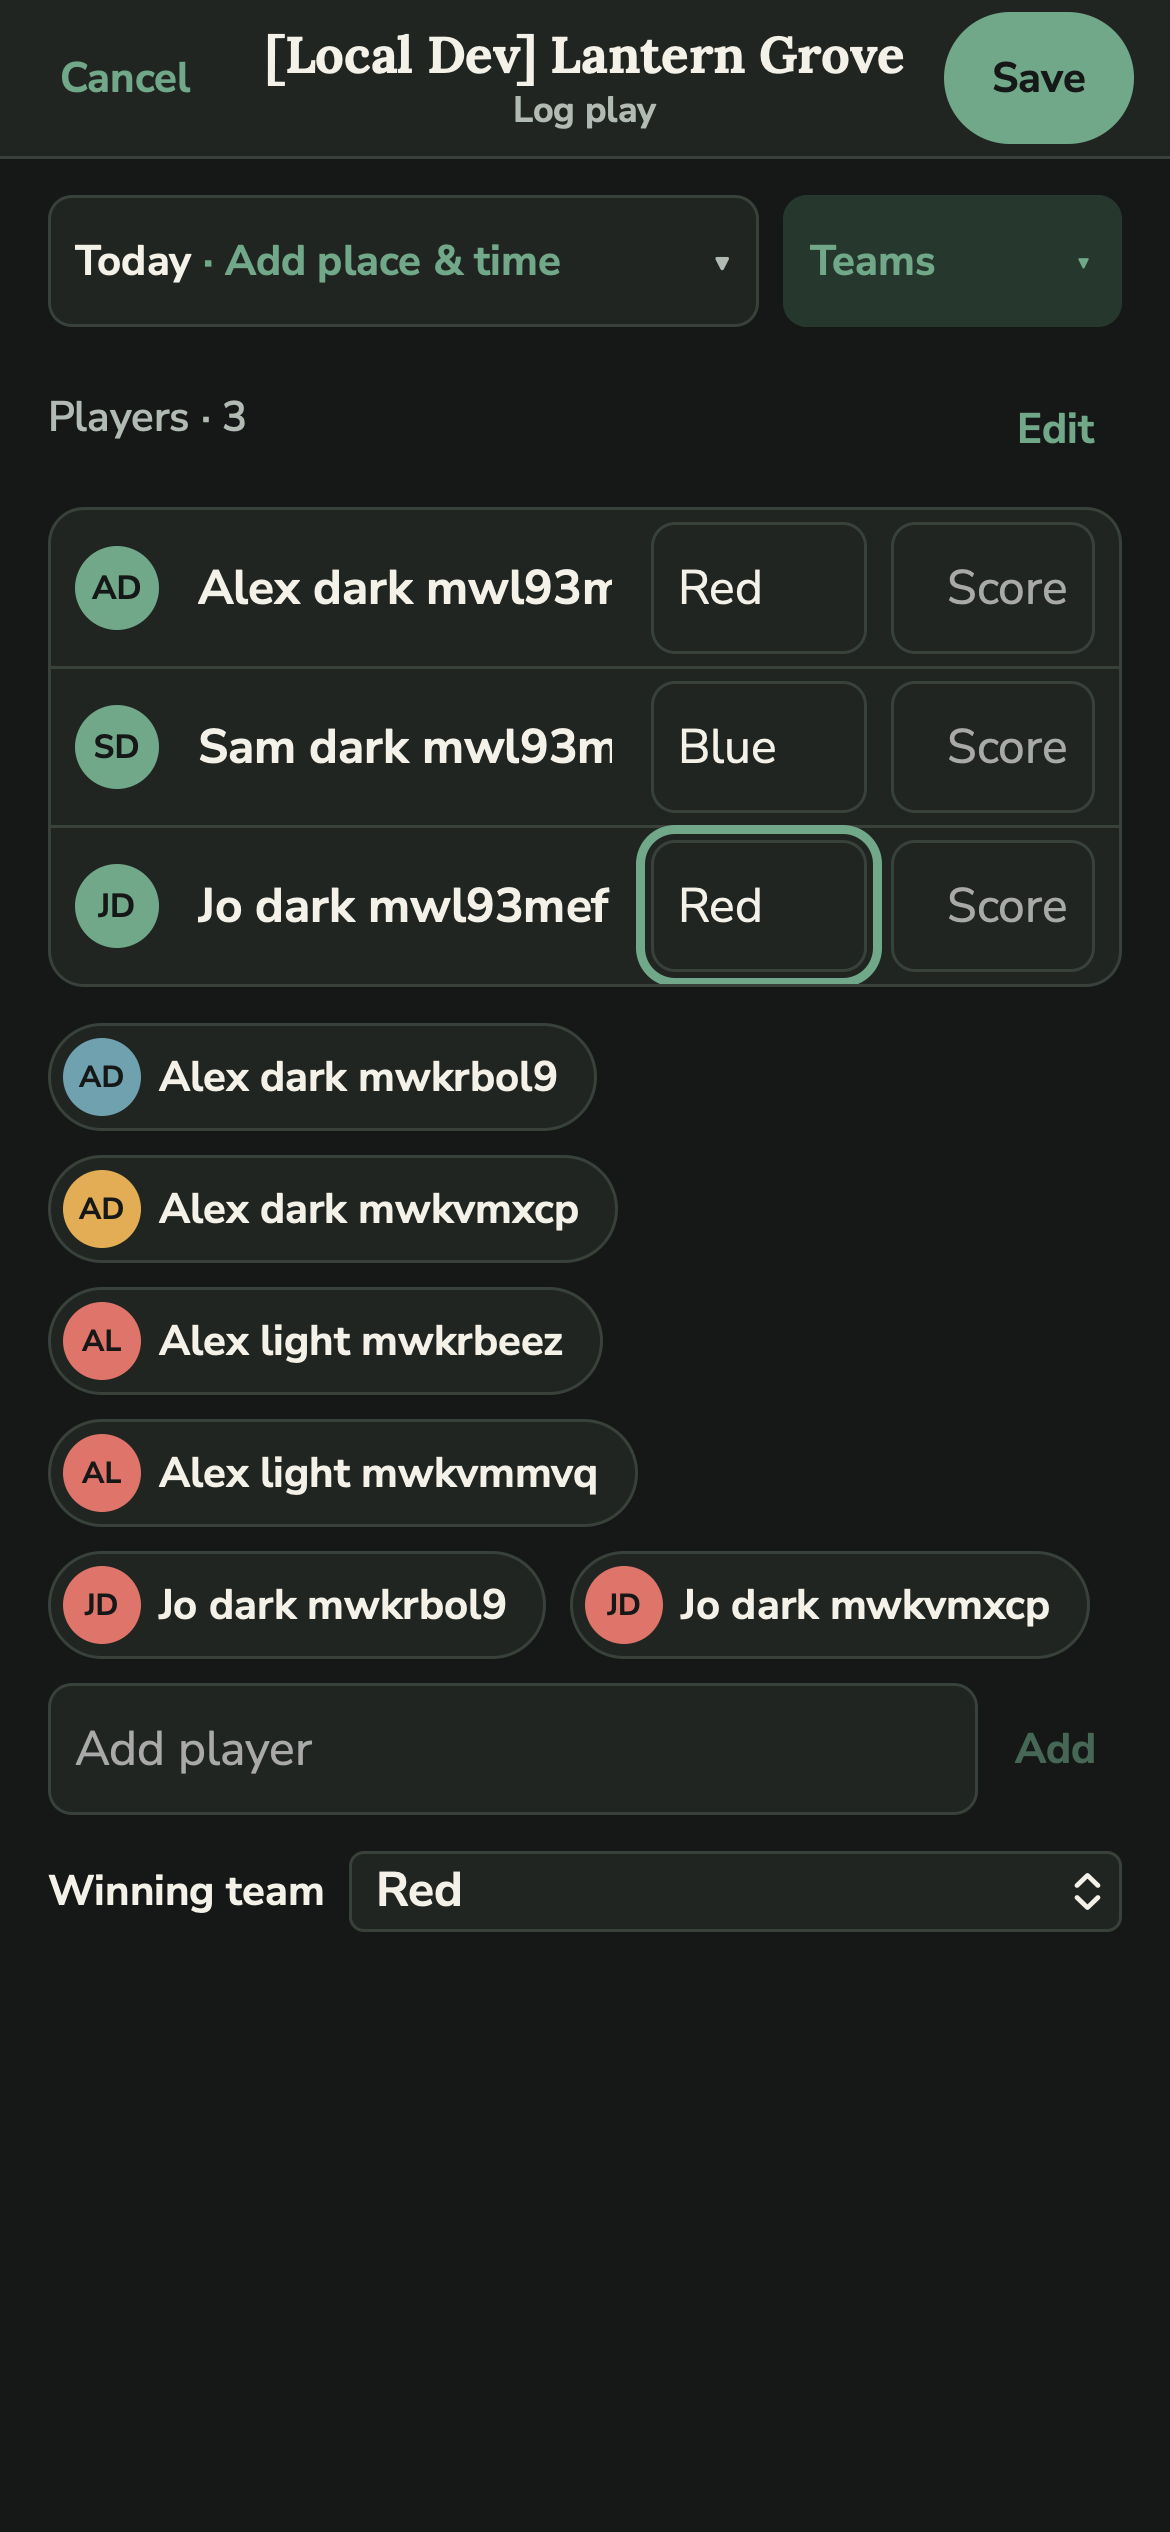
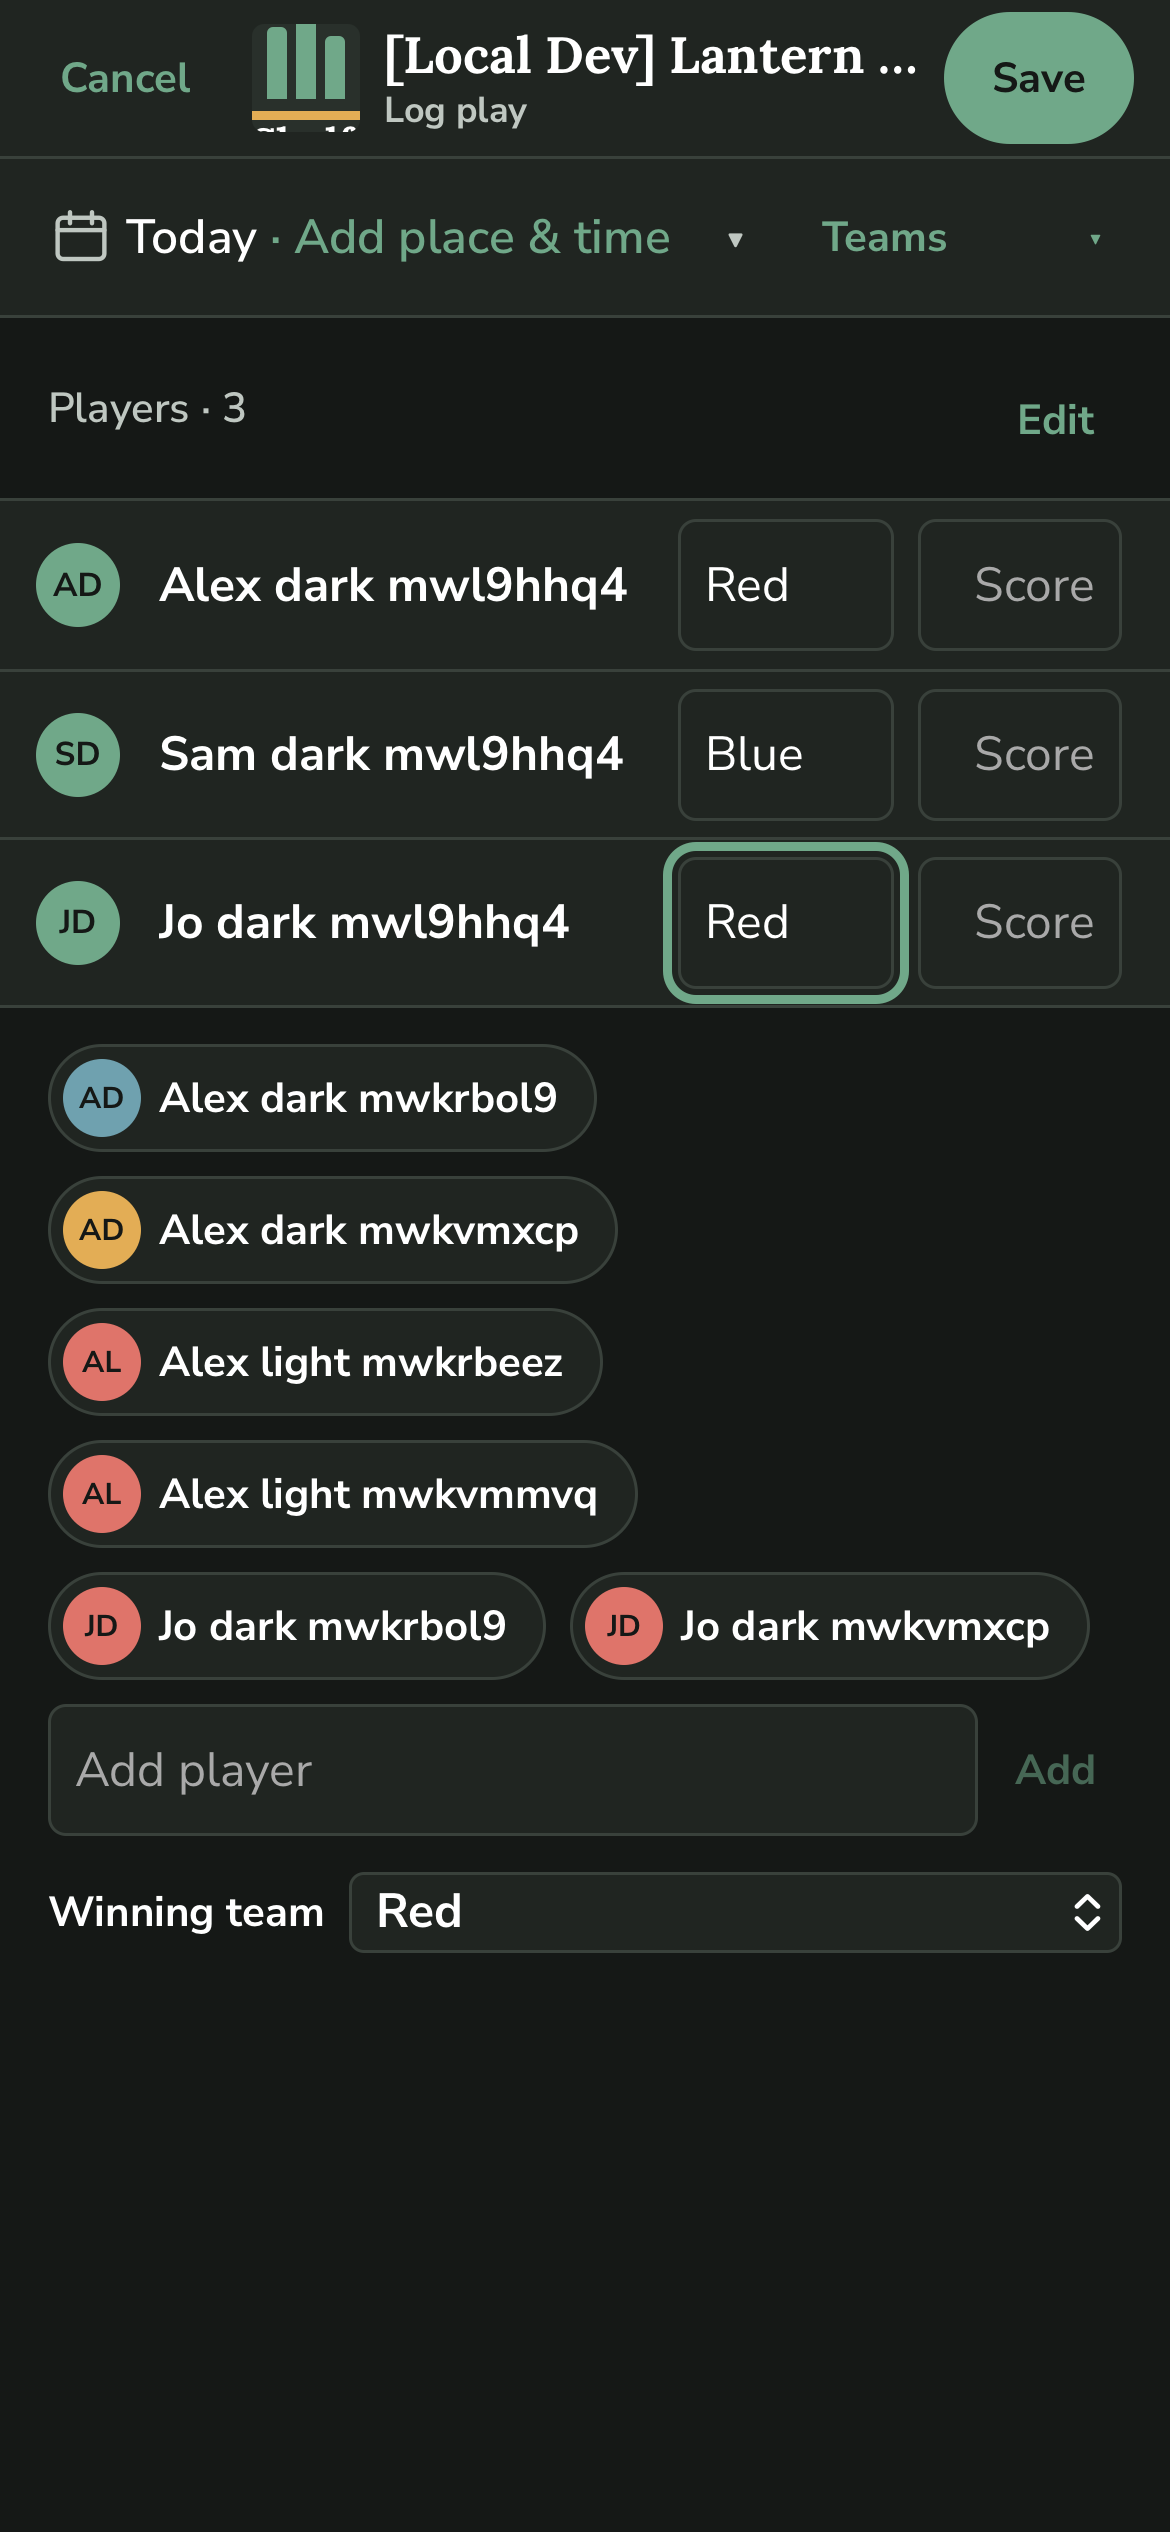
SP-UI-02: apply owner checkpoint feedback
Share moves left on Tonight's pick so it never meets the avatar. Links lose
underlines site-wide (Forest colour, trailing chevron for standalone
actions). Dark-mode text is pure white with a brighter secondary tone.
Log play rows are flat hairline rows with no boxes around the summary and
result type, plus a small game cover by the title. Richer group stats are
recorded as a separate follow-up.

diff --git a/frontend/src/styles/play-sheet.css b/frontend/src/styles/play-sheet.css
@@ -48,8 +48,34 @@
 }
 
 .play-sheet-title {
+  display: flex;
+  align-items: center;
+  justify-content: center;
+  gap: var(--space-2);
   min-width: 0;
-  text-align: center;
+}
+
+.play-sheet-cover {
+  display: block;
+  flex: none;
+  width: 36px;
+  height: 36px;
+  overflow: hidden;
+  border-radius: 4px;
+  background: var(--color-surface-raised);
+}
+
+.play-sheet-cover img,
+.play-sheet-cover > * {
+  display: block;
+  width: 100%;
+  height: 100%;
+  object-fit: cover;
+}
+
+.play-sheet-title-text {
+  min-width: 0;
+  text-align: left;
 }
 
 .play-sheet-title h2 {
@@ -61,7 +87,7 @@
   white-space: nowrap;
 }
 
-.play-sheet-title span {
+.play-sheet-title-text > span {
   display: block;
   color: var(--color-text-support);
   font-size: var(--text-meta);
@@ -121,7 +147,14 @@
   min-height: 0;
   overflow-y: auto;
   overscroll-behavior: contain;
-  padding: var(--space-3) var(--space-4) calc(var(--space-6) + env(safe-area-inset-bottom));
+  padding: 0 var(--space-4) calc(var(--space-6) + env(safe-area-inset-bottom));
+}
+
+/* These sections run edge to edge with hairlines, like a native grouped list. */
+.play-sheet-form > .play-summary-row,
+.play-sheet-form > .play-rows,
+.play-sheet-form > .play-details {
+  margin-inline: calc(var(--space-4) * -1);
 }
 
 .play-sheet-form input,
@@ -129,7 +162,7 @@
   min-width: 0;
   min-height: var(--target-min);
   border: 1px solid var(--color-border);
-  border-radius: var(--radius-sm);
+  border-radius: 6px;
   background: var(--color-surface);
   color: var(--color-text-primary);
   font: inherit;
@@ -153,6 +186,9 @@
   display: flex;
   align-items: center;
   gap: var(--space-2);
+  padding: var(--space-1) var(--space-3) var(--space-1) var(--space-2);
+  border-bottom: 1px solid var(--color-border);
+  background: var(--color-surface);
 }
 
 .play-summary-button {
@@ -163,15 +199,25 @@
   min-width: 0;
   min-height: var(--target-min);
   padding: 0 var(--space-2);
-  border: 1px solid var(--color-border);
-  border-radius: var(--radius-sm);
-  background: var(--color-surface);
+  border: 0;
+  border-radius: 0;
+  background: transparent;
   color: var(--color-text-primary);
   font: inherit;
-  font-size: var(--text-support);
-  font-weight: 700;
+  font-size: var(--text-body);
+  font-weight: 600;
   text-align: left;
   cursor: pointer;
+}
+
+.play-summary-icon {
+  flex: none;
+  width: 22px;
+  height: 22px;
+  fill: none;
+  stroke: var(--color-text-support);
+  stroke-width: 1.6;
+  stroke-linecap: round;
 }
 
 .play-summary-text {
@@ -221,7 +267,7 @@
 .play-sheet-form .play-type-menu select,
 .play-sheet-form .play-direction-menu select {
   padding: 0 var(--space-5) 0 var(--space-2);
-  background: var(--color-brand-primary-soft);
+  background: transparent;
   border-color: transparent;
   color: var(--color-brand-primary);
   font-size: var(--text-support);
@@ -240,8 +286,8 @@
   display: grid;
   grid-template-columns: minmax(0, 1fr) minmax(0, 7rem);
   gap: var(--space-2);
-  padding: var(--space-3);
-  border-radius: var(--radius-md);
+  padding: var(--space-3) var(--space-4);
+  border-bottom: 1px solid var(--color-border);
   background: var(--color-surface-raised);
 }
 
@@ -297,8 +343,8 @@
   margin: 0;
   padding: 0;
   list-style: none;
-  border: 1px solid var(--color-border);
-  border-radius: var(--radius-md);
+  border-block: 1px solid var(--color-border);
+  border-radius: 0;
   background: var(--color-surface);
   overflow: hidden;
 }
@@ -307,8 +353,8 @@
   display: flex;
   align-items: center;
   gap: var(--space-2);
-  min-height: 52px;
-  padding: var(--space-1) var(--space-2);
+  min-height: 56px;
+  padding: var(--space-1) var(--space-4) var(--space-1) var(--space-3);
 }
 
 .play-row + .play-row {
@@ -524,6 +570,8 @@
 
 .play-records {
   margin: 0;
+  padding-top: var(--space-2);
+  border-top: 1px solid var(--color-border);
   color: var(--color-text-support);
   font-size: var(--text-meta);
   font-weight: 700;

diff --git a/frontend/src/components/collection/PlayLogForm.tsx b/frontend/src/components/collection/PlayLogForm.tsx
@@ -42,6 +42,7 @@ import { createBGStatsPlayUrl } from "../../utils/bgstats"
 import { useLiveTimer } from "../../live-timer"
 import { elapsedSeconds, formatElapsed } from "../../live-timer-utils"
 import PlayerAvatar from "../ui/PlayerAvatar"
+import ResilientGameArtwork from "../ResilientGameArtwork"
 
 export type SavedPlayResult = {
   bgStatsUrl: string | null
@@ -432,8 +433,13 @@ function PlayLogForm({
           ? <span />
           : <button type="button" className="sheet-text-button" onClick={onClose} disabled={saving}>Cancel</button>}
         <div className="play-sheet-title">
-          <h2 id={titleId}>{game.name}</h2>
-          <span>{isEditing ? "Edit play" : saved ? "Saved" : "Log play"}</span>
+          <span className="play-sheet-cover">
+            <ResilientGameArtwork src={game.thumbnail_url ?? game.image_url} alt="" gameName={game.name} />
+          </span>
+          <span className="play-sheet-title-text">
+            <h2 id={titleId}>{game.name}</h2>
+            <span>{isEditing ? "Edit play" : saved ? "Saved" : "Log play"}</span>
+          </span>
         </div>
         {saved
           ? <button type="button" className="sheet-text-button sheet-strong" onClick={done}>Done</button>
@@ -477,6 +483,10 @@ function PlayLogForm({
               aria-label={`Date, place and time: ${summary.join(", ")}. ${detailsOpen ? "Hide" : "Edit"}`}
               onClick={() => setDetailsOpen((open) => !open)}
             >
+              <svg className="play-summary-icon" viewBox="0 0 24 24" aria-hidden="true" focusable="false">
+                <rect x="3.5" y="5" width="17" height="15" rx="2" />
+                <path d="M3.5 9.5h17M8 3v4M16 3v4" />
+              </svg>
               <span className="play-summary-text">
                 {summary.join(" · ")}
                 {needsDetails && <span className="play-summary-hint"> · Add place & time</span>}

diff --git a/frontend/src/styles/picker.css b/frontend/src/styles/picker.css
@@ -1795,7 +1795,7 @@
 }
 
 .picker-try-another:hover:not(:disabled) {
-  text-decoration: underline;
+  text-decoration: none;
 }
 
 .picker-try-another:disabled {
@@ -2881,10 +2881,12 @@
   margin: 0;
 }
 
+/* Share sits on the left so it never meets the avatar in the top-right corner. */
 .picker-result-heading-row .picker-share-icon-button {
   position: static;
-  grid-column: 3;
-  justify-self: end;
+  grid-column: 1;
+  grid-row: 1;
+  justify-self: start;
   transform: none;
 }
 
@@ -2983,13 +2985,10 @@
   color: var(--color-brand-primary);
   font-size: var(--text-meta);
   font-weight: 750;
-  text-decoration: underline;
-  text-decoration-color: transparent;
-  text-underline-offset: 3px;
+  text-decoration: none;
 }
 
 .picker-hero-link:hover .picker-view-game {
-  text-decoration-color: currentColor;
 }
 
 .picker-fit-summary {

diff --git a/frontend/src/styles/insights.css b/frontend/src/styles/insights.css
@@ -983,7 +983,7 @@
 }
 
 .stats-game-link:hover strong {
-  text-decoration: underline;
+  text-decoration: none;
 }
 
 .stats-game-link, .player-name-link {
@@ -1004,7 +1004,7 @@
 }
 
 .stats-game-link:hover strong, .player-name-link:hover {
-  text-decoration: underline;
+  text-decoration: none;
 }
 
 .player-name-link {
@@ -1138,7 +1138,7 @@
 }
 
 .favourite-player-link:hover, .favourite-game-link:hover, .monthly-play-game:hover {
-  text-decoration: underline;
+  text-decoration: none;
 }
 
 /*=========================================================
@@ -1399,7 +1399,7 @@
 }
 
 .rank-insight-game:hover strong {
-  text-decoration: underline;
+  text-decoration: none;
 }
 
 .rank-insight-share-status {

diff --git a/frontend/src/styles/tokens.css b/frontend/src/styles/tokens.css
@@ -115,8 +115,8 @@
   --color-bg: #151816;
   --color-surface: #202521;
   --color-surface-raised: #29302B;
-  --color-text-primary: #F4F1E8;
-  --color-text-secondary: #AAB4AD;
+  --color-text-primary: #FFFFFF;
+  --color-text-secondary: #B8C1BA;
   --color-text-inverse: #151816;
   --color-border: #39413B;
   --color-success: #68A77C;
@@ -141,8 +141,8 @@
   --color-bg: #000000;
   --color-surface: #0B0E0C;
   --color-surface-raised: #151A17;
-  --color-text-primary: #F7F4EB;
-  --color-text-secondary: #BAC5BD;
+  --color-text-primary: #FFFFFF;
+  --color-text-secondary: #C4CEC6;
   --color-text-inverse: #050605;
   --color-border: #465149;
   --color-success: #78B58D;

diff --git a/frontend/src/styles/base.css b/frontend/src/styles/base.css
@@ -344,6 +344,23 @@ select,
 textarea,
 a {
   -webkit-tap-highlight-color: transparent;
+  color: var(--color-brand-primary);
+  font-weight: 700;
+  text-decoration: none;
+}
+
+/* Links are told apart by colour, never by underline (SP-UI-02). */
+a:hover {
+  color: var(--color-brand-primary-hover);
+}
+
+/* Standalone text actions end in a chevron instead of an underline. */
+.picker-view-game::after,
+.tonight-vote-button::after,
+.add-game-import a::after,
+.game-night-get-app a::after {
+  content: "\00a0›";
+  font-weight: 800;
 }
 
 button,

diff --git a/frontend/src/styles/shell.css b/frontend/src/styles/shell.css
@@ -109,7 +109,7 @@
 .tonight-vote-button {
   width: 100%; min-height: 48px; margin: 0; padding: 0;
   color: var(--color-brand-primary); background: transparent; border: 0;
-  font: inherit; font-weight: 700; text-decoration: underline; text-underline-offset: 4px; cursor: pointer;
+  font: inherit; font-weight: 700; text-decoration: none; cursor: pointer;
 }
 /* Lighter floating tab bar, and room so content clears it. */
 .app-nav { box-shadow: 0 2px 8px var(--color-shadow); }

diff --git a/frontend/src/cover-accent.ts b/frontend/src/cover-accent.ts
@@ -67,7 +67,7 @@ export function accessibleOn(hex: string, surfaces: string[], direction: "darker
     l += direction === "darker" ? -0.01 : 0.01
     if (l < 0 || l > 1) break
   }
-  return direction === "darker" ? "#1E2A24" : "#F4F1E8"
+  return direction === "darker" ? "#1E2A24" : "#FFFFFF"
 }
 
 export function accentTextColors(hex: string): { light: string; dark: string } {

diff --git a/frontend/src/styles/discover.css b/frontend/src/styles/discover.css
@@ -344,7 +344,7 @@
 
 .discover-bgg-link:hover {
   color: var(--sp-text);
-  text-decoration: underline;
+  text-decoration: none;
 }
 
 .discover-dismiss-button {
@@ -356,7 +356,7 @@
 
 .discover-dismiss-button:hover {
   color: var(--sp-secondary);
-  text-decoration: underline;
+  text-decoration: none;
 }
 
 .discover-empty {

diff --git a/frontend/src/styles/auth.css b/frontend/src/styles/auth.css
@@ -243,7 +243,7 @@
 }
 
 .auth-link-button:hover {
-  text-decoration: underline;
+  text-decoration: none;
 }
 .password-input-row { display: flex; align-items: stretch; gap: var(--space-2); margin-top: 7px; }
 .password-input-row input { min-width: 0; flex: 1; }

diff --git a/frontend/src/styles/game-night.css b/frontend/src/styles/game-night.css
@@ -300,8 +300,7 @@
 
 .game-night-get-app a {
   color: var(--color-accent-text);
-  text-decoration: underline;
-  text-underline-offset: 3px;
+  text-decoration: none;
   display: inline-flex;
   align-items: center;
   min-height: 44px;

diff --git a/frontend/src/styles/commercial.css b/frontend/src/styles/commercial.css
@@ -1326,7 +1326,7 @@ h3,
 
 .discover-bgg-link:hover {
   color: var(--sp-text);
-  text-decoration: underline;
+  text-decoration: none;
 }
 
 /* Insight labels and recap links follow the same palette; no rust/red accents. */
